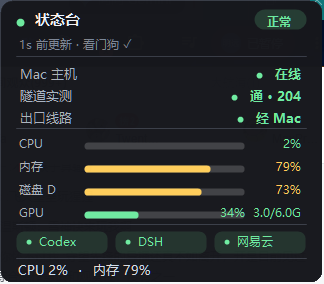
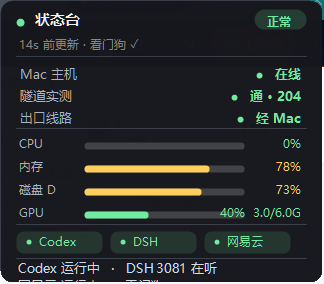
feat: 服务状态只显示运行中的进程，区分空闲/工作中并记录上次活动；胶囊改两行（上=系统指标翻页，下=Codex/DSH 常亮）

diff --git a/README.md b/README.md
@@ -11,8 +11,8 @@
 |---|---|
 | 隧道 | Mac 主机在线状态（Tailscale）、SOCKS5 实际连通性（真的去打 `gstatic/generate_204`）、ChatGPT 当前出口（经 Mac / 机场 / 直连） |
 | 系统 | CPU、内存、磁盘 C/D 占比（带进度条，<65% 绿 / <88% 黄 / 更高红）、GPU 利用率与显存（NVIDIA） |
-| 服务 | Codex（进程）、DSH（端口）、网易云（进程）——名字、进程名、端口都可配 |
-| 底栏 | 上下翻页：CPU/内存 → 磁盘 → GPU → Codex+DSH → 网易云+看门狗 → 隧道+出口 → 建议 |
+| 服务 | Codex（进程）、DSH（端口）、网易云（进程）。**没在运行就不显示**；运行中显示 `空闲` / `工作中`（按 CPU 增量判定），并记录「上次活动」时间 |
+| 底栏 | 上下翻页：CPU/内存 → 磁盘 → GPU → Codex+DSH 状态 → 网易云+看门狗 → 隧道+出口 → 上次活动 → 建议 |
 
 右上角胶囊表示总体健康度：`正常 / 降级 / 异常 / 离线`。
 
@@ -64,6 +64,7 @@ powershell -File "$env:LOCALAPPDATA\StatusIsland\StatusIsland.ps1" -Once   # 采
 | `watchdogLockPath` | 可选：隧道看门狗的锁文件路径，用来显示 `看门狗 ✓/✗` | 空 = 不显示 |
 | `tunnelStartScript` | 可选：右键「重连 Mac 隧道」要执行的 ps1 | 空 = 菜单项不动作 |
 | `clashExe` | 可选：右键「打开 Clash Verge」的程序路径或命令 | `clash-verge.exe` |
+| `busyThreshold` | 判定「工作中」的 CPU 阈值（相对单核，0.06 = 6%） | 0.06 |
 
 配置里只写这台机器的路径/IP，不涉及任何凭据；SSH 私钥只由那个 `tunnelStartScript` 自己使用。
 
